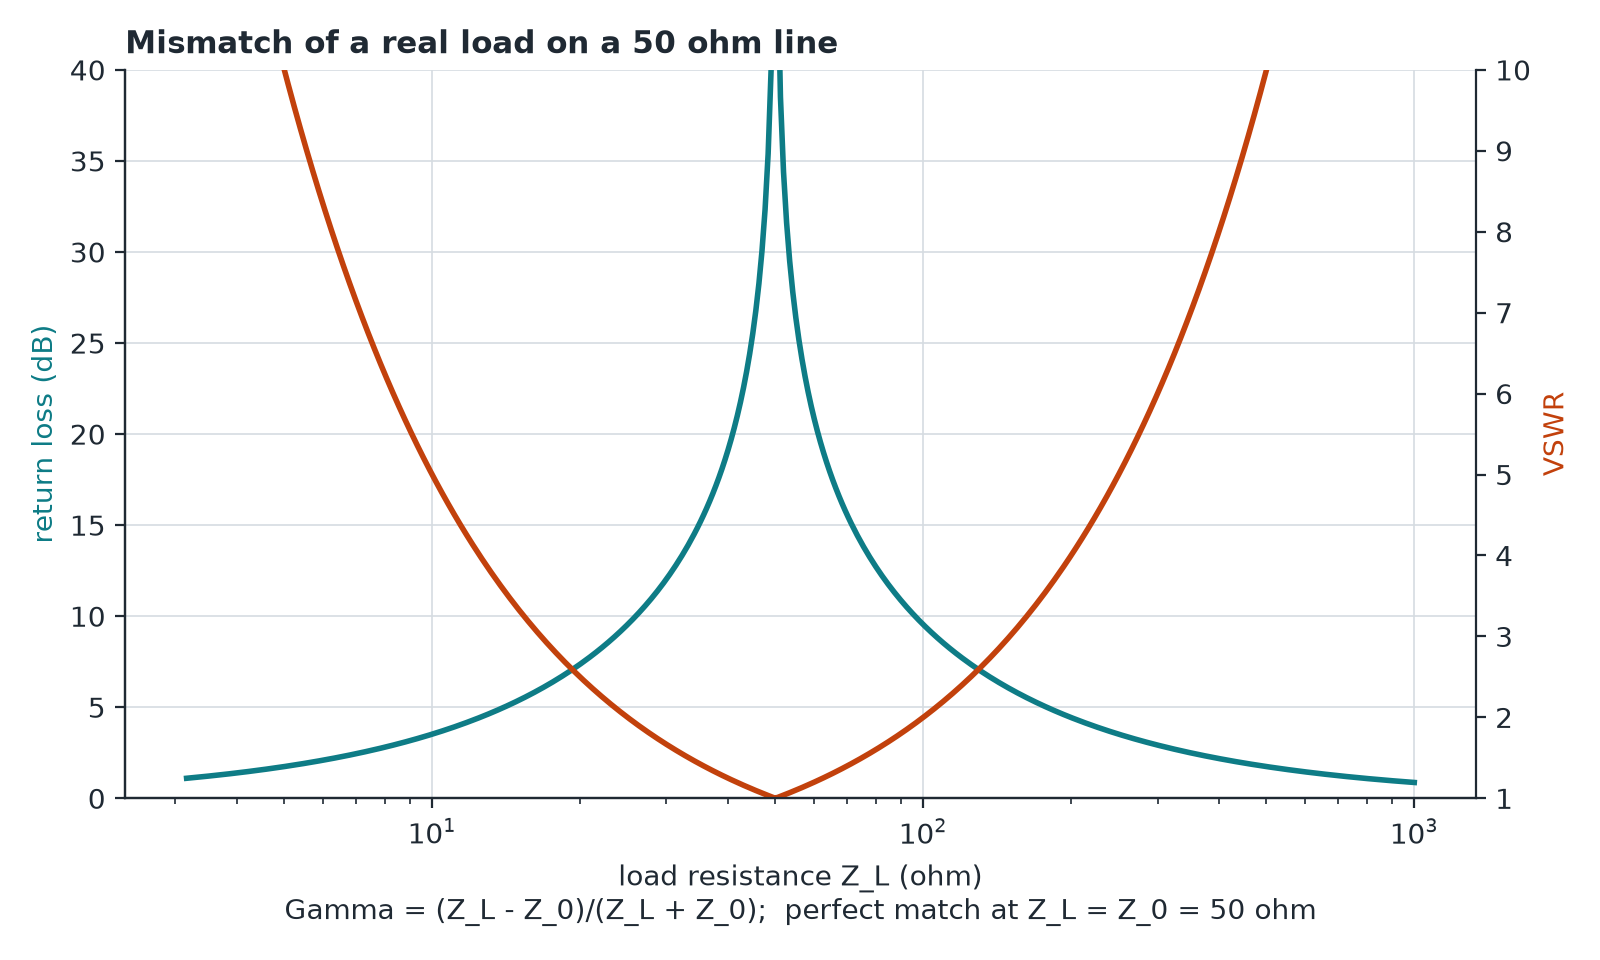
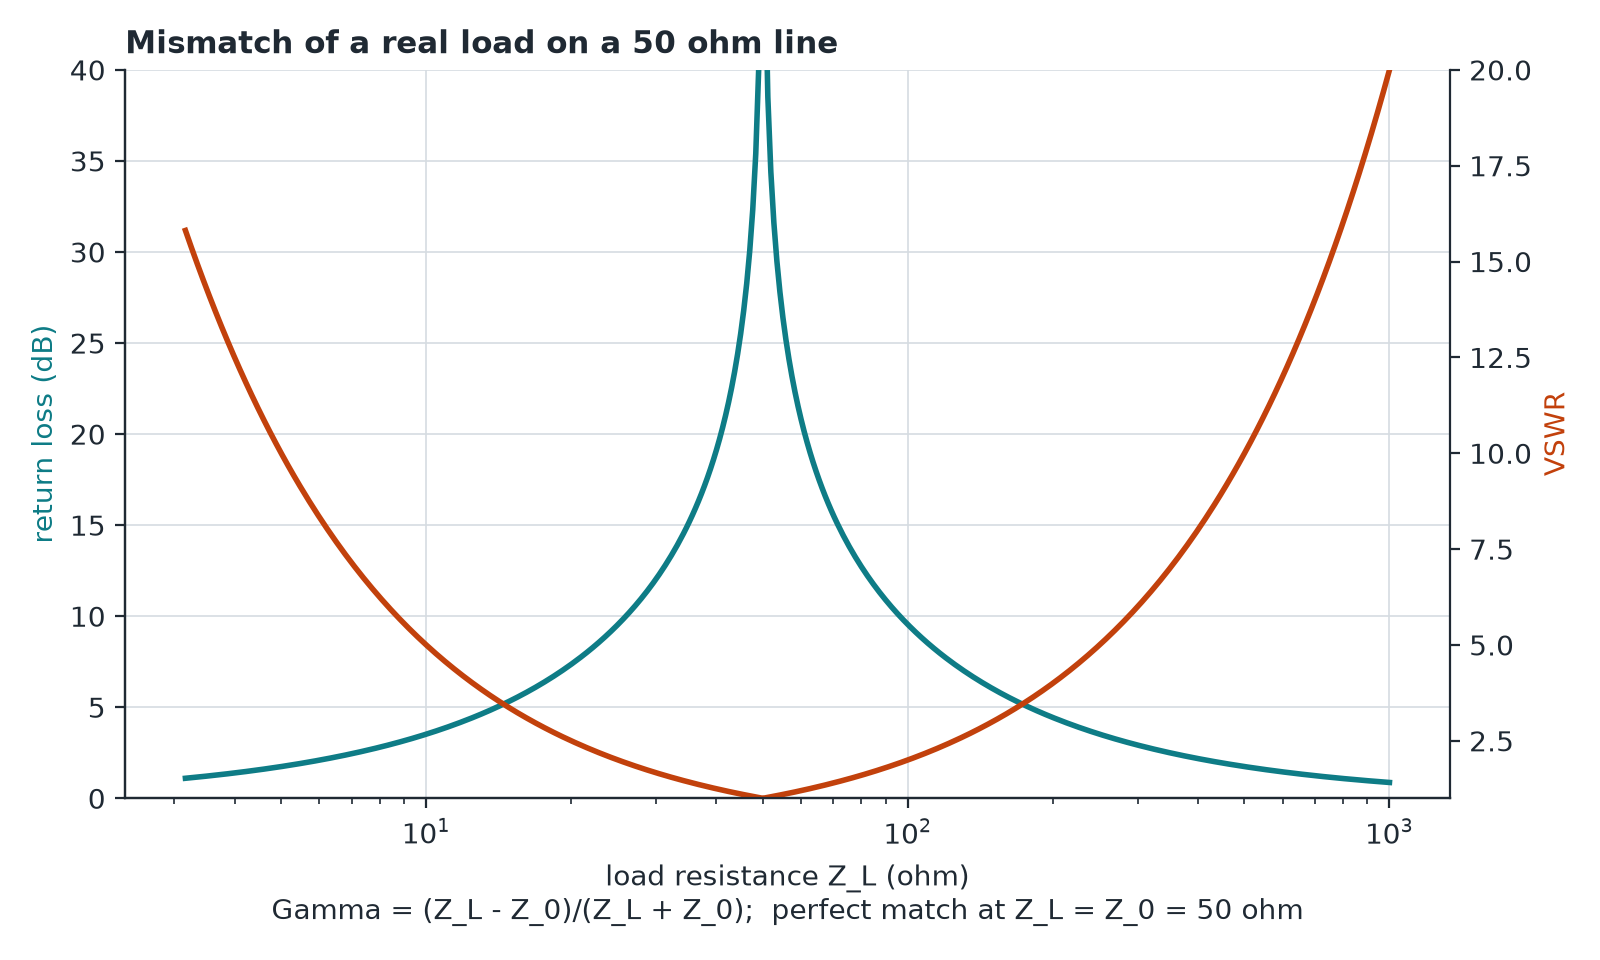
Review fixes: label new categories in reel and world view, widen VSWR axis, update projects description

diff --git a/assets/html/world/world.js b/assets/html/world/world.js
@@ -23,6 +23,8 @@ const CATS = {
   visualization: { key: "muted", label: "Visualization" },
   software: { key: "muted", label: "Software" },
   "quantum-chemistry": { key: "muted", label: "Quantum chemistry" },
+  photonics: { key: "sky", label: "Photonics" },
+  electronics: { key: "amber", label: "Electronics" },
 };
 const catOf = (c) => CATS[c] || { key: "sky", label: c };
 

diff --git a/bin/make_ee_figures.py b/bin/make_ee_figures.py
@@ -334,10 +334,10 @@ def return_loss():
     G = np.abs((ZL - Z0) / (ZL + Z0))
     fig, ax = new("Mismatch of a real load on a 50 ohm line")
     ax.semilogx(ZL, -20 * np.log10(np.clip(G, 1e-4, None)), color=ACCENT, label="return loss (dB)")
-    ax.set_xlabel("load resistance Z_L (ohm)"), ax.set_ylabel("return loss (dB)", color=ACCENT), ax.set_ylim(0, 40)
+    ax.set_ylabel("return loss (dB)", color=ACCENT), ax.set_ylim(0, 40)
     ax2 = ax.twinx()
     ax2.semilogx(ZL, (1 + G) / (1 - np.clip(G, 0, 0.999)), color=ACCENT2, label="VSWR")
-    ax2.set_ylim(1, 10), ax2.set_ylabel("VSWR", color=ACCENT2), ax2.grid(False), ax2.spines["right"].set_visible(True)
+    ax2.set_ylim(1, 20), ax2.set_ylabel("VSWR", color=ACCENT2), ax2.grid(False), ax2.spines["right"].set_visible(True)
     ax.set_xlabel("load resistance Z_L (ohm)"+chr(10)+"Gamma = (Z_L - Z_0)/(Z_L + Z_0);  perfect match at Z_L = Z_0 = 50 ohm")
     save(fig, "rf-antennas-microwaves", 2, "reflection_vswr",
          "Reflection coefficient, return loss and VSWR for a resistive load on a 50 ohm line: only Z_L = Z_0 absorbs everything.", "matching")

diff --git a/_pages/projects.md b/_pages/projects.md
@@ -2,7 +2,7 @@
 layout: default
 title: Research Projects
 permalink: /projects/
-description: Research projects in combustion, optimization, uncertainty quantification, scientific ML and CFD.
+description: Research projects in combustion, optimization, uncertainty quantification, scientific ML and CFD, plus learning pages on photonics and electronics.
 nav: true
 nav_order: 3
 ---
